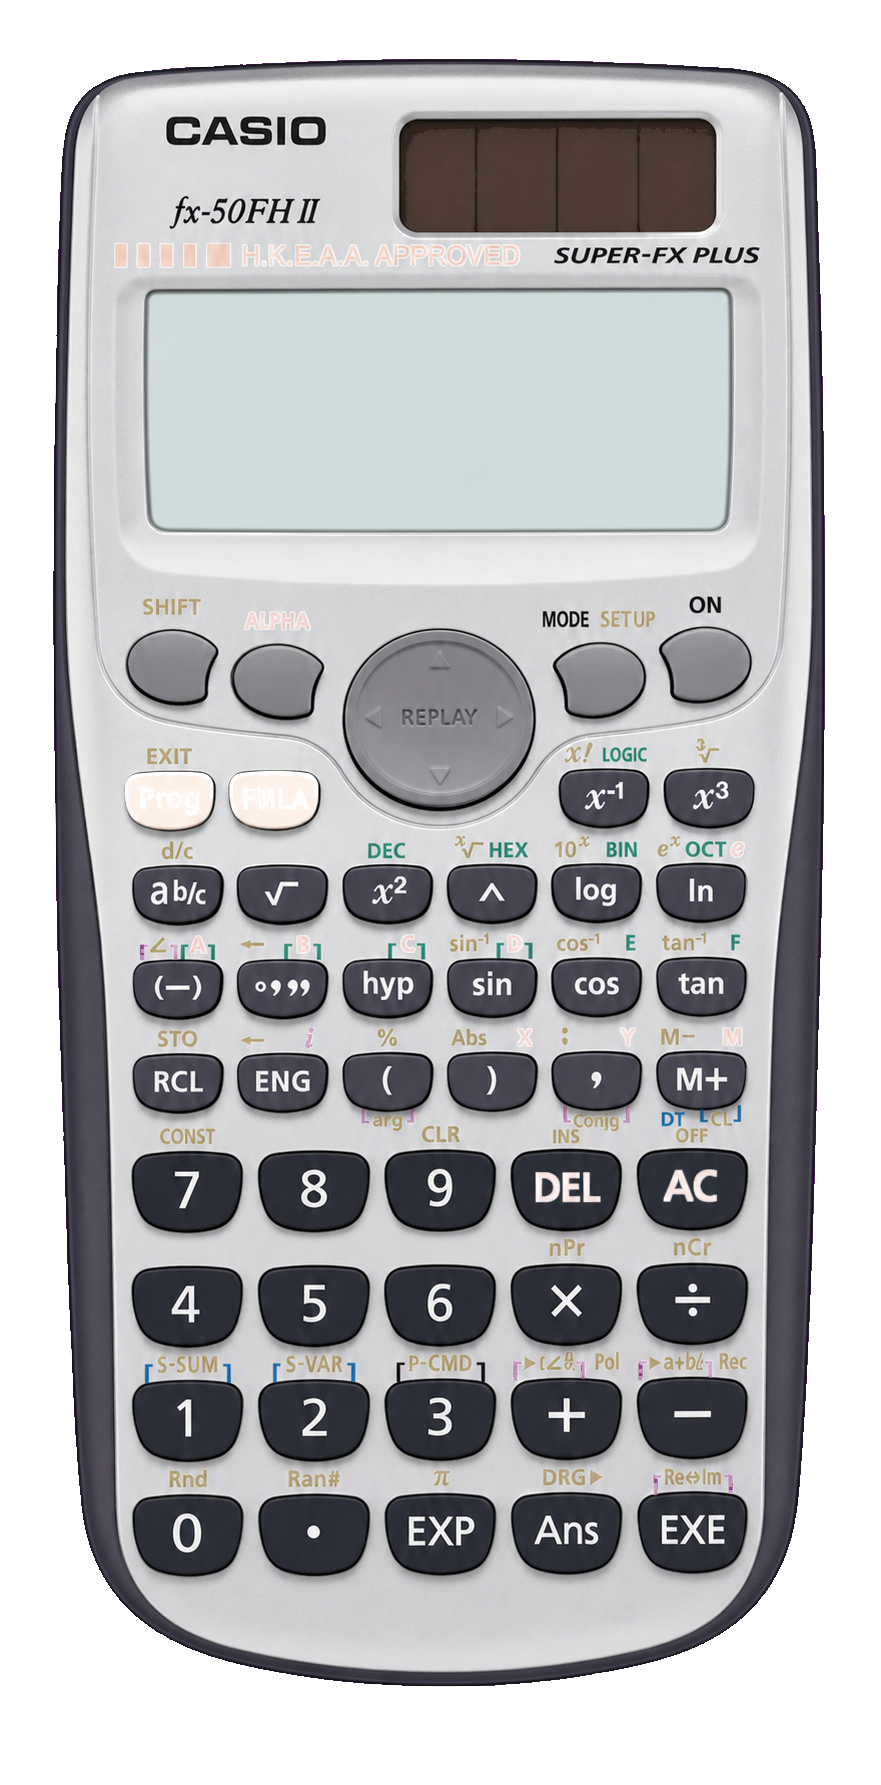
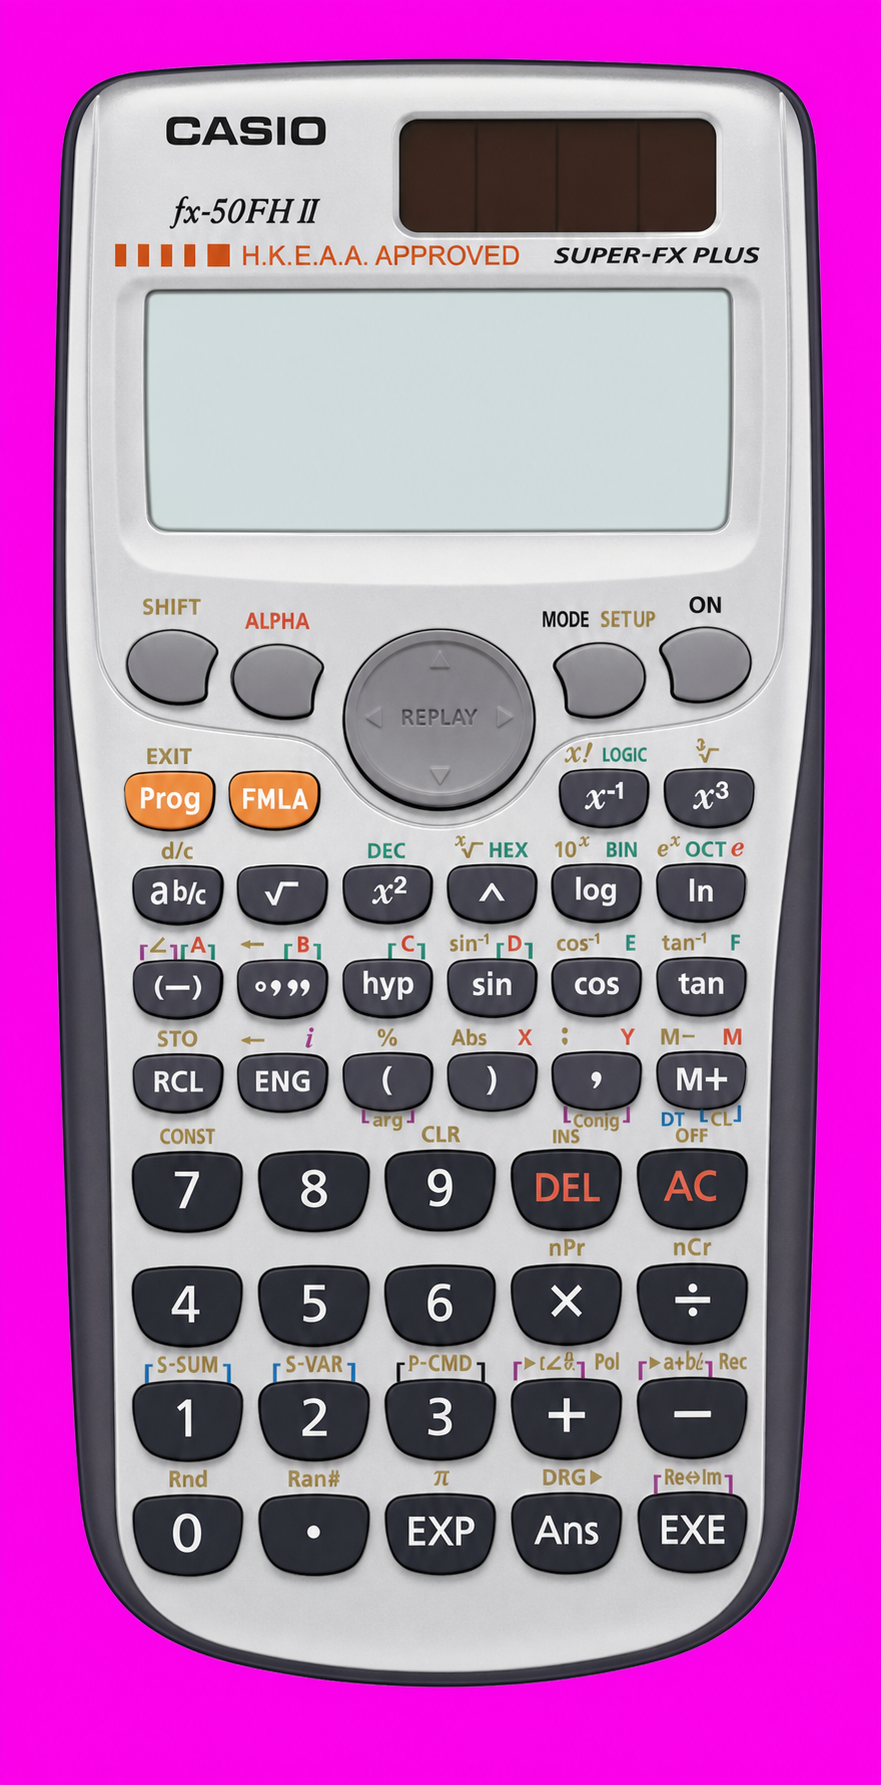
Use supplied faceplate without color edits

diff --git a/css/style.css b/css/style.css
@@ -39,7 +39,7 @@ main {
   position: relative;
   width: 100%;
   aspect-ratio: 881 / 1785;
-  background: url('../assets/fx-50fh-ii-generated.png') center / 100% 100% no-repeat;
+  background: url('../assets/fx-50fh-ii-generated.png?v=3b60f316') center / 100% 100% no-repeat;
   filter: drop-shadow(0 18px 30px rgba(0, 0, 0, .28));
   touch-action: manipulation;
   user-select: none;
@@ -63,7 +63,8 @@ main {
   border: 0;
 }
 
-/* Transparent hotspots sitting exactly on the reconstructed keys. */
+/* Transparent hotspots sit over the source artwork. Keep them visually inert:
+   the attached faceplate — including every key colour — must remain untouched. */
 .key {
   position: absolute;
   margin: 0;
@@ -73,30 +74,11 @@ main {
   border-radius: 34% / 40%;
   cursor: pointer;
   -webkit-tap-highlight-color: transparent;
-  transition: background-color .07s linear, transform .07s ease-out;
 }
 
 .key:focus-visible {
   outline: 2px solid #2f7fe0;
   outline-offset: 1px;
-}
-
-.key.down {
-  background: rgba(0, 0, 0, .34);
-  transform: translateY(1px) scale(.97);
-}
-
-.key.orange.down { background: rgba(120, 40, 0, .38); }
-.key.pad.down { background: rgba(0, 0, 0, .22); border-radius: 40%; }
-
-/* SHIFT / ALPHA latched state gets a soft glow on the matching cap. */
-body.shifted .key[data-id="SHIFT"],
-body.alphaed .key[data-id="ALPHA"] {
-  background: rgba(255, 255, 255, .38);
-  box-shadow: 0 0 0 2px rgba(255, 190, 60, .75) inset;
-}
-body.alphaed .key[data-id="ALPHA"] {
-  box-shadow: 0 0 0 2px rgba(230, 90, 60, .8) inset;
 }
 
 #help-toggle {

diff --git a/README.md b/README.md
@@ -97,9 +97,10 @@ The calculator's behaviour was reconstructed from CASIO's published user's
 guide for this calculator family, and the key layout was measured from
 photographs of the unit.
 
-The active `assets/fx-50fh-ii-generated.png` shell is the AI-generated reconstruction
-at its original 881×1785 geometry. Only its flat magenta background was made
-transparent; every fully opaque subject pixel retains its original RGB values.
+The active `assets/fx-50fh-ii-generated.png` shell is the supplied AI-generated
+881×1785 PNG itself, stored byte-for-byte with no transparency conversion,
+recolouring, resampling, or edited key artwork. The LCD and invisible hit targets
+are the only browser-rendered layers placed over it.
 Its LCD and all 50 key targets are measured directly in that native coordinate
 space. `assets/fx-50fh-ii.png` is the source CASIO product
 photograph retained for calibration and identification. CASIO holds the source
